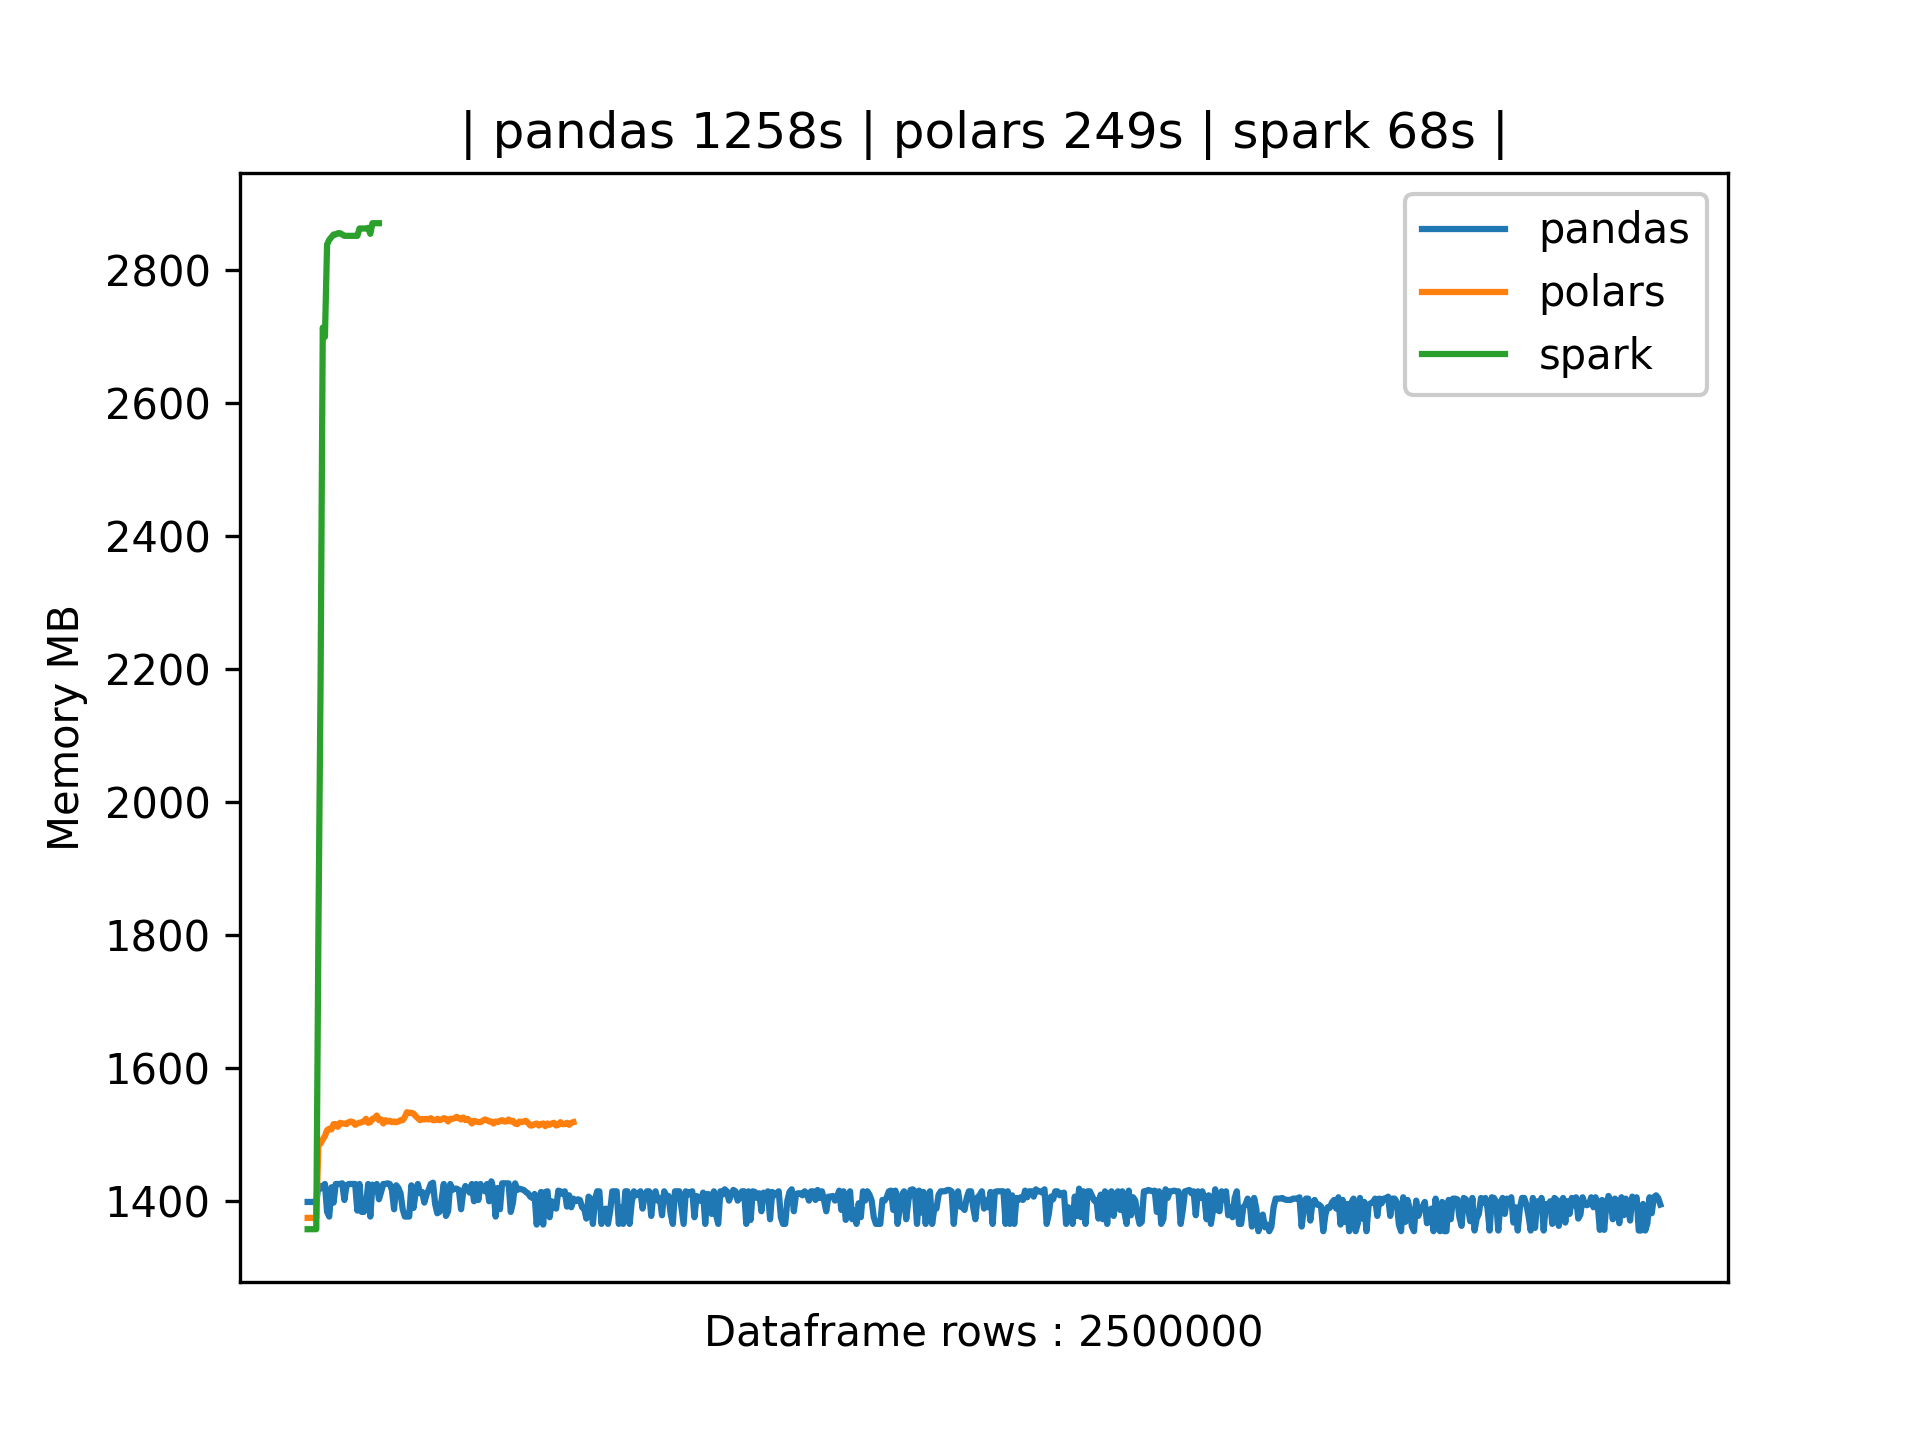
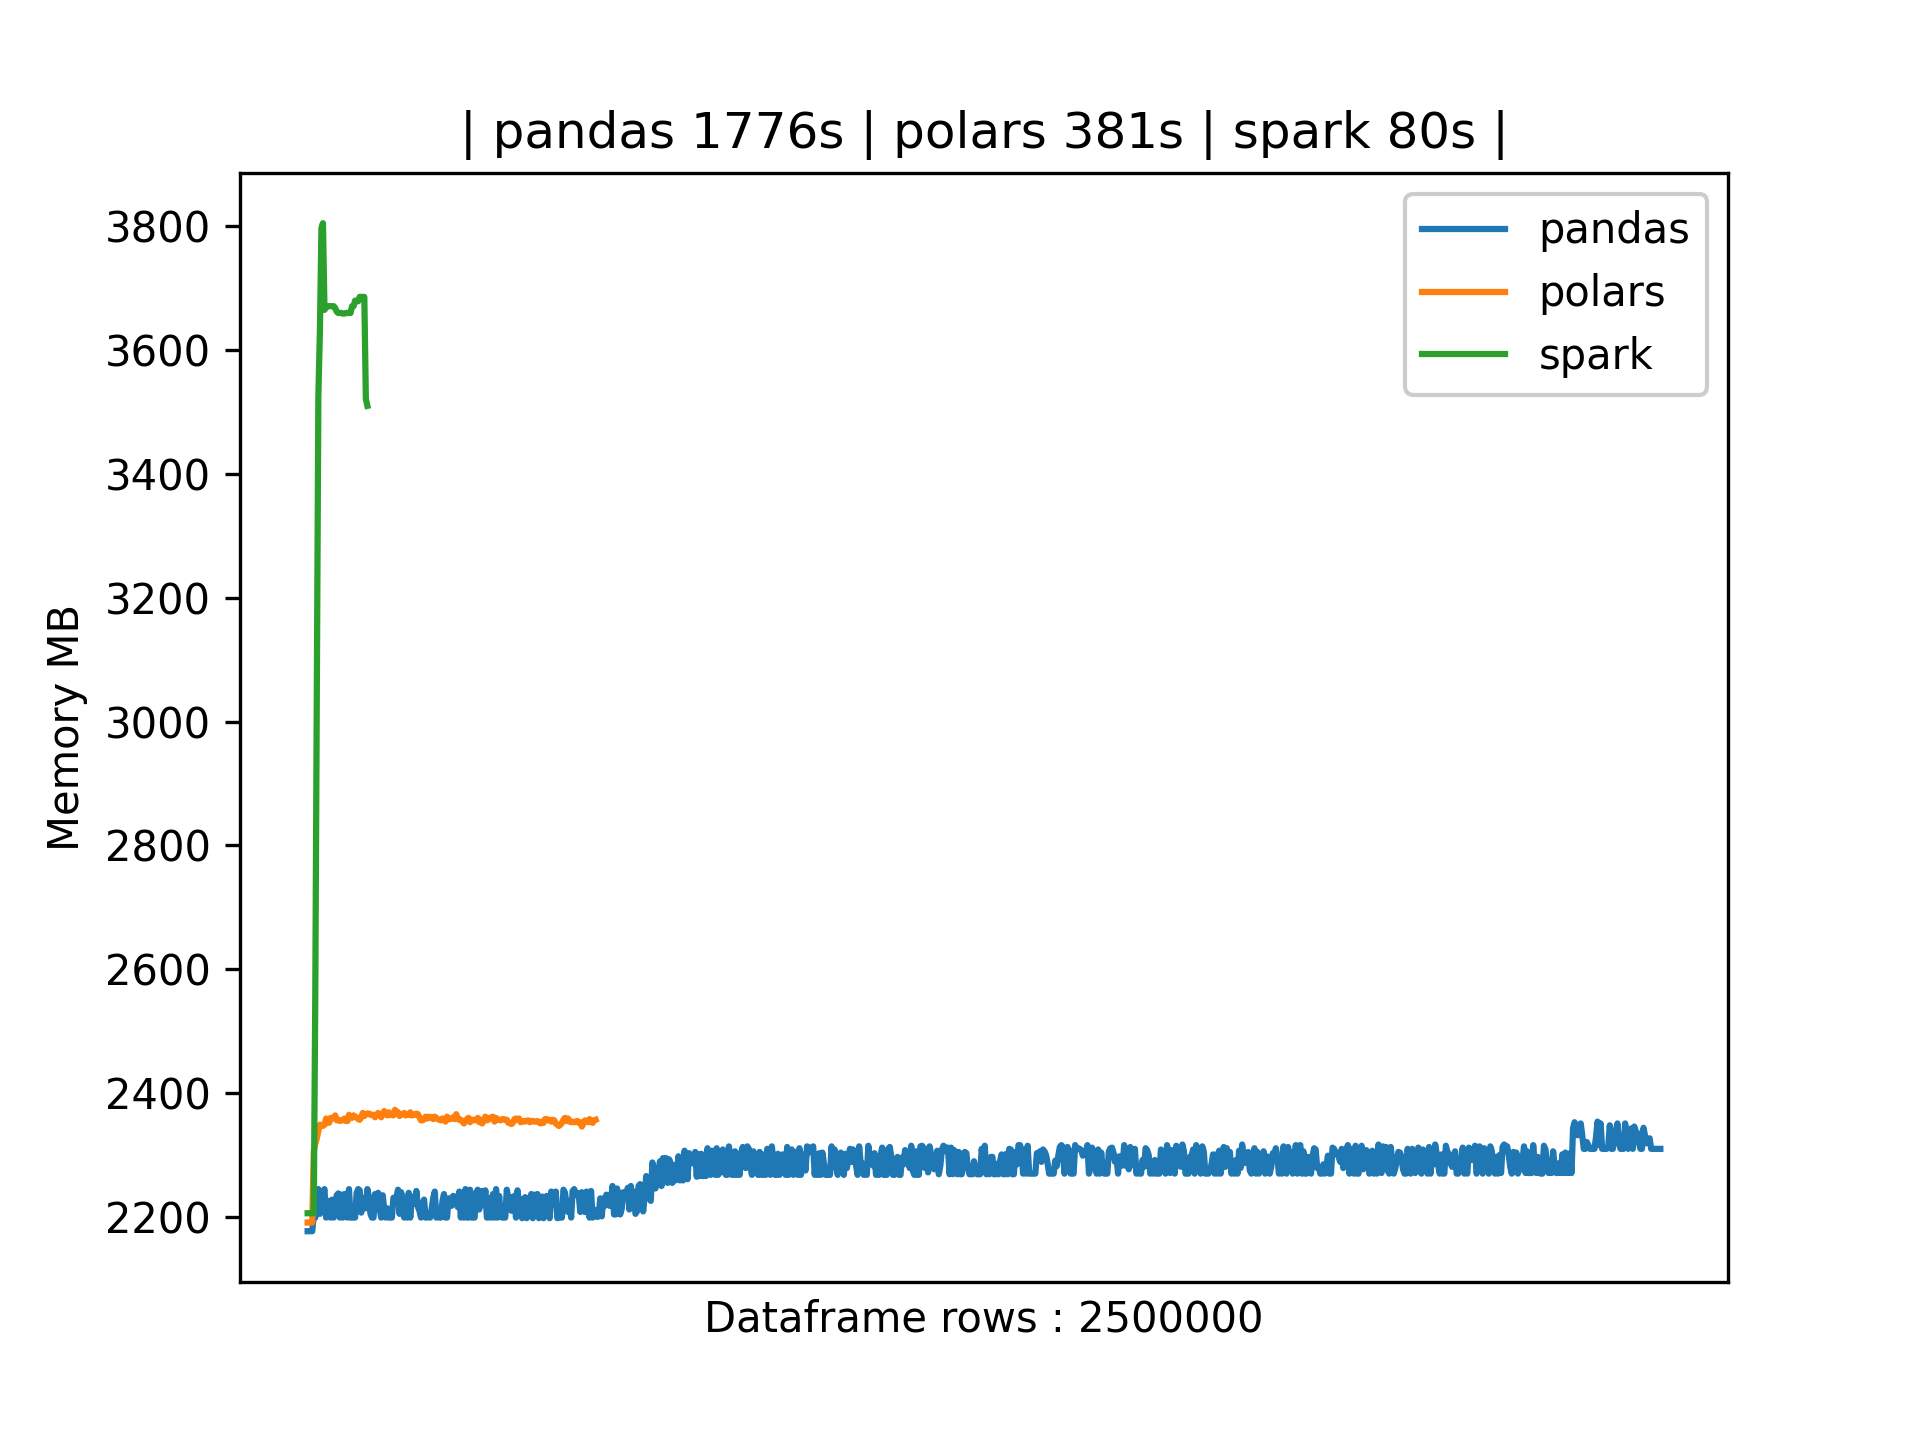
feat: pandas 2.0

diff --git a/run.py b/run.py
@@ -32,8 +32,10 @@ def dockerLog(event,testType,dataframeN):
                     # Taking in to account the amount of cores the CPU has
                     cpuDelta = status["cpu_stats"]["cpu_usage"]["total_usage"] - status["precpu_stats"]["cpu_usage"]["total_usage"]
                     systemDelta = status["cpu_stats"]["system_cpu_usage"] - status["precpu_stats"]["system_cpu_usage"]
-                    cpuPercent = (cpuDelta / systemDelta) * len(status["cpu_stats"]["cpu_usage"]["percpu_usage"]) * 100
+                    #print("systemDelta: "+str(systemDelta)+" cpuDelta: "+str(cpuDelta))
+                    cpuPercent = (cpuDelta / systemDelta) * (status["cpu_stats"]["online_cpus"]) * 100
                     cpuPercent = int(cpuPercent)
+                    #print("cpuPercent: "+str(cpuPercent)+"%")
                     #Fetch the memory consumption for the container
                     mem = status["memory_stats"]["usage"]
                     mem = int(mem/1000000)
@@ -45,8 +47,11 @@ def dockerLog(event,testType,dataframeN):
                         cpuLog.append(cpuPercent)
                         memLog.append(mem)
                 except Exception as e:
+                    #print("Error: "+str(e))
+                    #print(json.dumps(status, indent=4, sort_keys=True))
                     break
         except Exception as e:
+            #print("Error: "+str(e))
             pass
         if event.is_set():
             break
@@ -120,7 +125,12 @@ def removeContainers():
     for container in containers:
         if imageName in str(container.image):
             print("################################################### Deleting old container {}".format(container.name))
-            container.remove()
+            try:
+                container.stop()
+                container.remove()
+            except Exception as e:
+                print("################################################### Error deleting old container {}".format(container.name))
+                print(e)
 
 def runContainer(testType,dataframeN):
     images = dockerClient.images.list(all=True)
@@ -145,7 +155,7 @@ if __name__ == "__main__":
             runContainer(testType,dataframeN)
             endEpoch = int(time.time()*1000)
             timeSpent = float((endEpoch-startEpoch)/1000)
-            print(timeSpent)
+            print("Time spent : {}".format(timeSpent))
             event.set()
             dockerLogThread.join()
 

diff --git a/test.py b/test.py
@@ -1,5 +1,5 @@
 #SPARK
-from pyspark.sql import SparkSession
+from pyspark.sql import SparkSession, Row
 spark = SparkSession.builder.appName('sparkdf').getOrCreate()
 #PANDAS
 import pandas as pd
@@ -50,7 +50,9 @@ pandasDf = pd.DataFrame(dataDict)
 #Create a Polars Dataframe
 polarsDf = pl.DataFrame(dataDict)
 #Create a Spark dataframe
-sparkDf = spark.createDataFrame(pandasDf)
+dataList = [Row(**{k: v[i] for k, v in dataDict.items()}) for i in range(len(dataDict["id"]))]
+sparkDf = spark.createDataFrame(dataList)
+#sparkDf = spark.createDataFrame(pandasDf)
 
 #Pandas single core by default
 def pandasTest(testDf):
